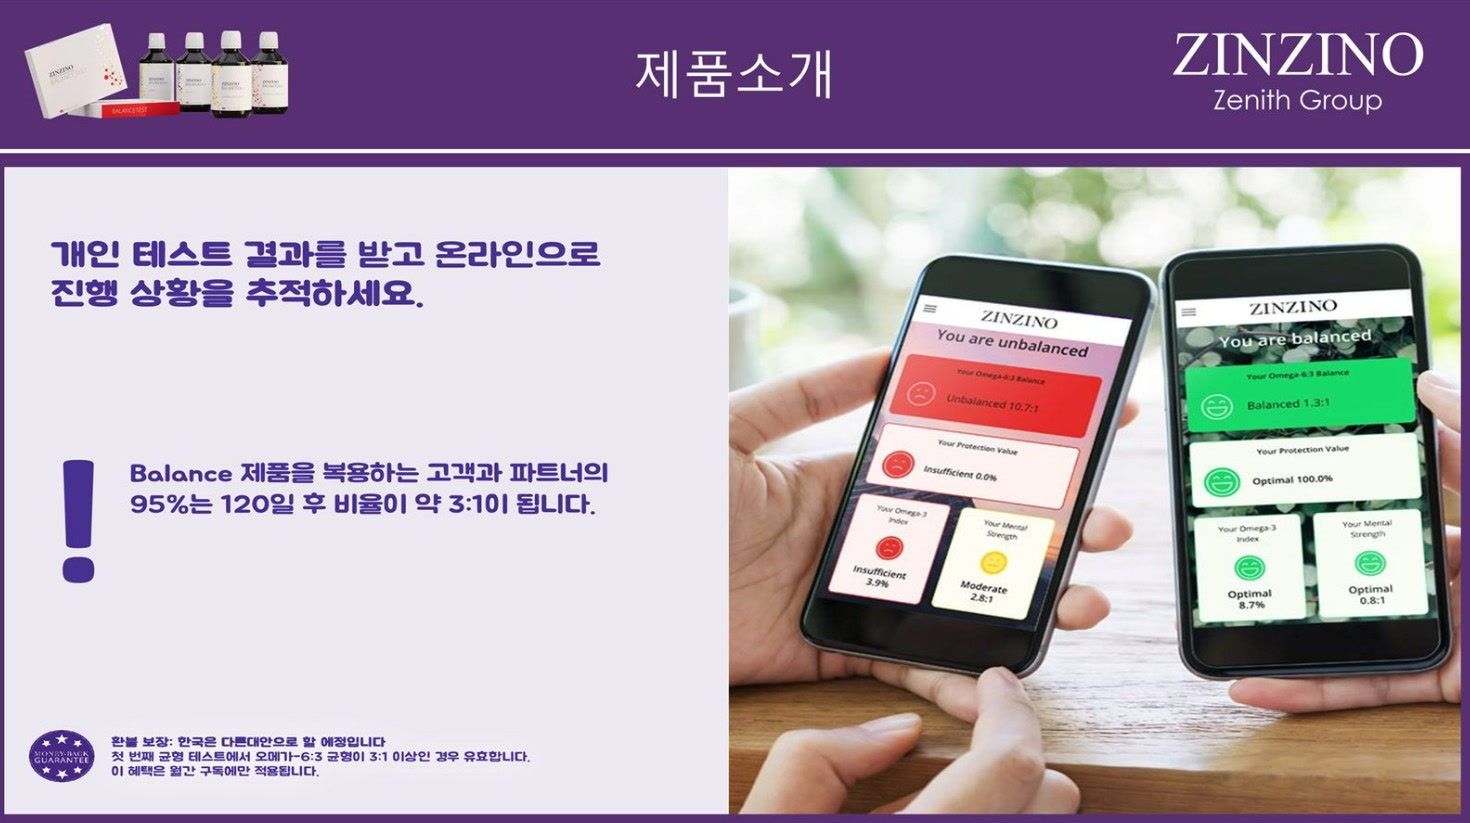
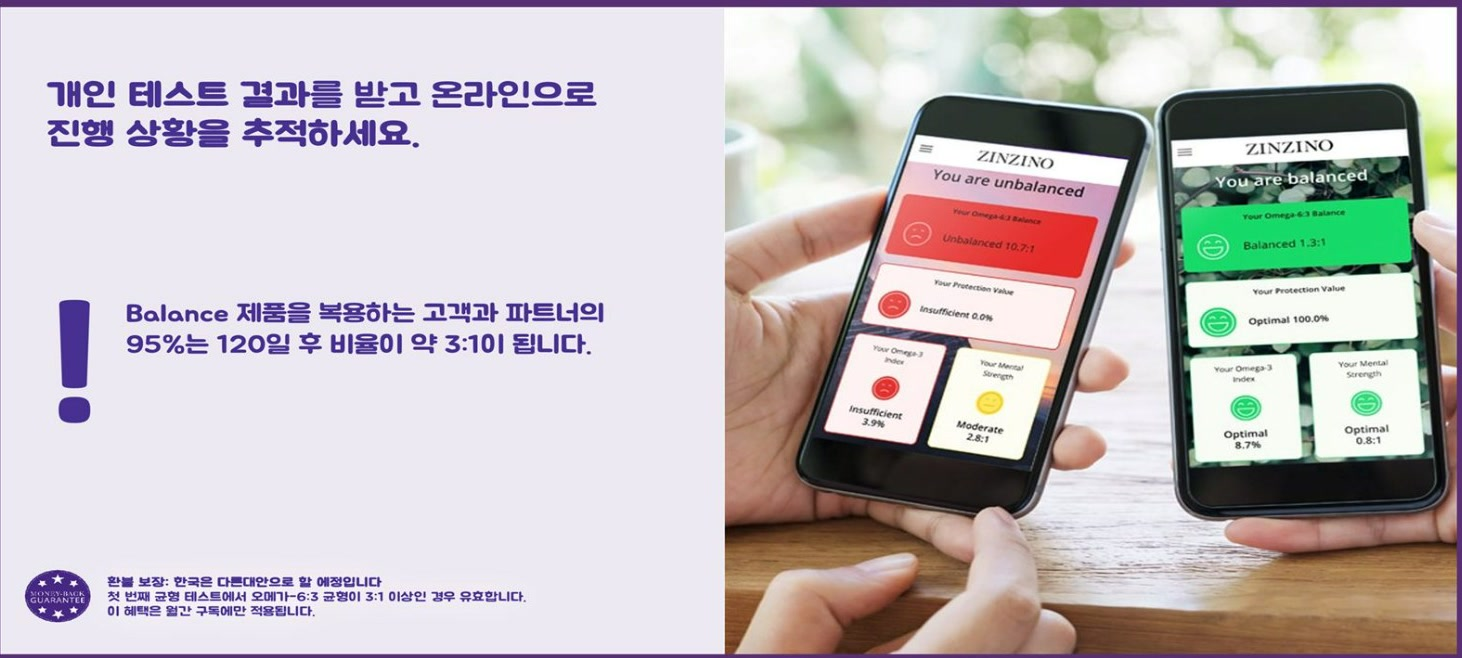
앱 결과 이미지를 본문 영역만 잘라 넣고 크게 배치
가로로 넓은 이미지를 좁은 칸에 넣어 글씨가 안 보였다. 블록을
세로 구성으로 바꿔 이미지를 전폭으로 두고, 좁은 화면에서는 카드
여백까지 줄여 최대한 크게 보이게 했다.

diff --git a/assets/style.css b/assets/style.css
@@ -411,19 +411,32 @@ h2.head{font-family:var(--font-d);font-weight:700;font-size:clamp(26px,3.6vw,42p
 .setcard .btn{margin-top:10px}
 
 /* ---------- 전후 비교·키트·VITAS ---------- */
-.before-after,.vitas{
+.vitas{
   margin-top:64px;display:grid;grid-template-columns:minmax(280px,1fr) 1fr;gap:clamp(24px,4vw,48px);align-items:center;
   border:1px solid var(--line);border-radius:20px;overflow:hidden;background:var(--panel);
 }
-@media (max-width:820px){.before-after,.vitas{grid-template-columns:1fr}}
-.before-after .ph img,.vitas .ph img{width:100%;height:auto;object-fit:contain;display:block}
-.before-after .ph,.vitas .ph{align-self:stretch;background:#F3F1F6;display:flex;align-items:center;padding:22px}
-.before-after .ph img,.vitas .ph img{border-radius:8px}
+@media (max-width:820px){.vitas{grid-template-columns:1fr}}
+/* 가로로 넓은 앱 화면 이미지라 세로로 쌓아 크게 보여준다 */
+.before-after{margin-top:64px;border:1px solid var(--line);border-radius:20px;overflow:hidden;
+  background:var(--panel);padding:clamp(26px,4vw,42px);text-align:center}
+.before-after .tx{padding:0}
+.before-after .ph{margin-top:28px;background:transparent;padding:0;display:block}
+.before-after .ph img{width:100%;height:auto;border-radius:10px}
+.before-after .foot-note{margin-top:16px}
+/* 좁은 화면에서는 카드 여백을 줄여 앱 화면을 최대한 크게 */
+@media (max-width:700px){
+  .before-after{padding:26px 14px}
+  .before-after .ph{margin-left:-14px;margin-right:-14px}
+  .before-after .ph img{border-radius:6px}
+}
+.vitas .ph img{width:100%;height:auto;object-fit:contain;display:block;border-radius:8px}
+.vitas .ph{align-self:stretch;background:#F3F1F6;display:flex;align-items:center;padding:22px}
 .wide-photo img{max-height:520px;object-fit:cover}
-.before-after .tx,.vitas .tx{padding:clamp(24px,4vw,44px) clamp(24px,4vw,44px) clamp(24px,4vw,44px) 0}
-@media (max-width:820px){.before-after .tx,.vitas .tx{padding:0 clamp(22px,4vw,32px) 30px}}
+.vitas .tx{padding:clamp(24px,4vw,44px) clamp(24px,4vw,44px) clamp(24px,4vw,44px) 0}
+@media (max-width:820px){.vitas .tx{padding:0 clamp(22px,4vw,32px) 30px}}
 .before-after h3,.vitas h3,.kits h3{font-family:var(--font-d);font-size:clamp(20px,2.4vw,27px);font-weight:700;line-height:1.5;margin-top:10px}
 .before-after .tx > p,.vitas .tx > p{margin-top:12px;font-size:14.5px;color:var(--text-secondary);max-width:50ch}
+.before-after .tx > p{margin-left:auto;margin-right:auto}
 .before-after .stat-line{margin-top:18px;color:var(--text-primary)}
 .vitas-stats{list-style:none;margin-top:22px;display:grid;gap:12px}
 .vitas-stats li{display:flex;align-items:baseline;gap:16px;border-top:1px solid var(--line);padding-top:12px}

diff --git a/index.html b/index.html
@@ -19,7 +19,7 @@
 <link href="https://fonts.googleapis.com/css2?family=Gowun+Batang:wght@400;700&family=IBM+Plex+Mono:wght@400;500&display=swap" rel="stylesheet">
 <link rel="stylesheet" href="https://cdn.jsdelivr.net/gh/orioncactus/pretendard@v1.3.9/dist/web/variable/pretendardvariable-dynamic-subset.min.css">
 <!-- ?v= 는 캐시 무효화용. style.css 나 app.js 를 고치면 이 숫자를 함께 올릴 것 -->
-<link rel="stylesheet" href="assets/style.css?v=2">
+<link rel="stylesheet" href="assets/style.css?v=3">
 </head>
 <body>
 <a class="skip" href="#main">본문으로 건너뛰기</a>
@@ -355,14 +355,14 @@
         </div>
       </div>
       <div class="before-after part">
-        <div class="ph"><img src="assets/app-result.jpg" alt="진지노 앱 화면: 왼쪽은 불균형 10.7:1, 오른쪽은 120일 뒤 균형 1.3:1" loading="lazy"></div>
         <div class="tx">
           <p class="kicker">BEFORE / AFTER</p>
           <h3>결과는 앱에서, 숫자로 받습니다</h3>
           <p>왼쪽은 시작할 때, 오른쪽은 120일 뒤. 오메가 6:3 비율과 보호 지수가 색과 숫자로 바뀌는 걸 직접 확인합니다.</p>
           <p class="stat-line">진지노 밸런스 제품을 섭취한 고객과 파트너의 <b>95%</b>가 120일 뒤 약 <b>3:1</b>에 도달했습니다.</p>
-          <p class="foot-note">진지노 회사 자료 기준. 개인차가 있을 수 있습니다.</p>
         </div>
+        <div class="ph"><img src="assets/app-result.jpg" alt="진지노 앱 화면: 왼쪽은 불균형 10.7:1, 오른쪽은 120일 뒤 균형 1.3:1" loading="lazy"></div>
+        <p class="foot-note">진지노 회사 자료 기준. 개인차가 있을 수 있습니다.</p>
       </div>
       <div class="setcard part">
         <div class="ph ph-photo"><img src="assets/lifestyle-window.jpg" alt="창가에서 진지노 밸런스 오일 플러스와 밸런스 테스트 키트를 손에 든 모습" loading="lazy"></div>
@@ -564,6 +564,6 @@
   </div>
 </footer>
 
-<script src="assets/app.js?v=2"></script>
+<script src="assets/app.js?v=3"></script>
 </body>
 </html>
